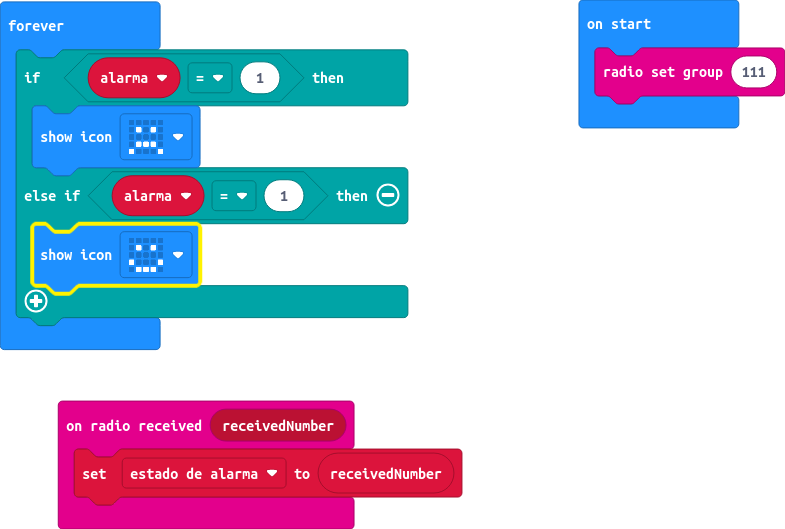
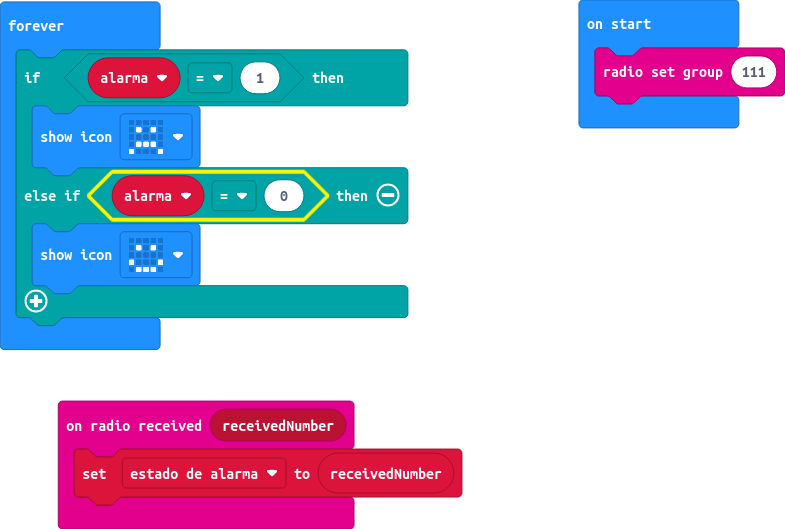
Update main.blocks, main.ts

diff --git a/main.ts b/main.ts
@@ -7,7 +7,7 @@ basic.forever(function () {
     let alarma = 0
     if (alarma == 1) {
         basic.showIcon(IconNames.Sad)
-    } else if (alarma == 1) {
+    } else if (alarma == 0) {
         basic.showIcon(IconNames.Happy)
     }
 })
